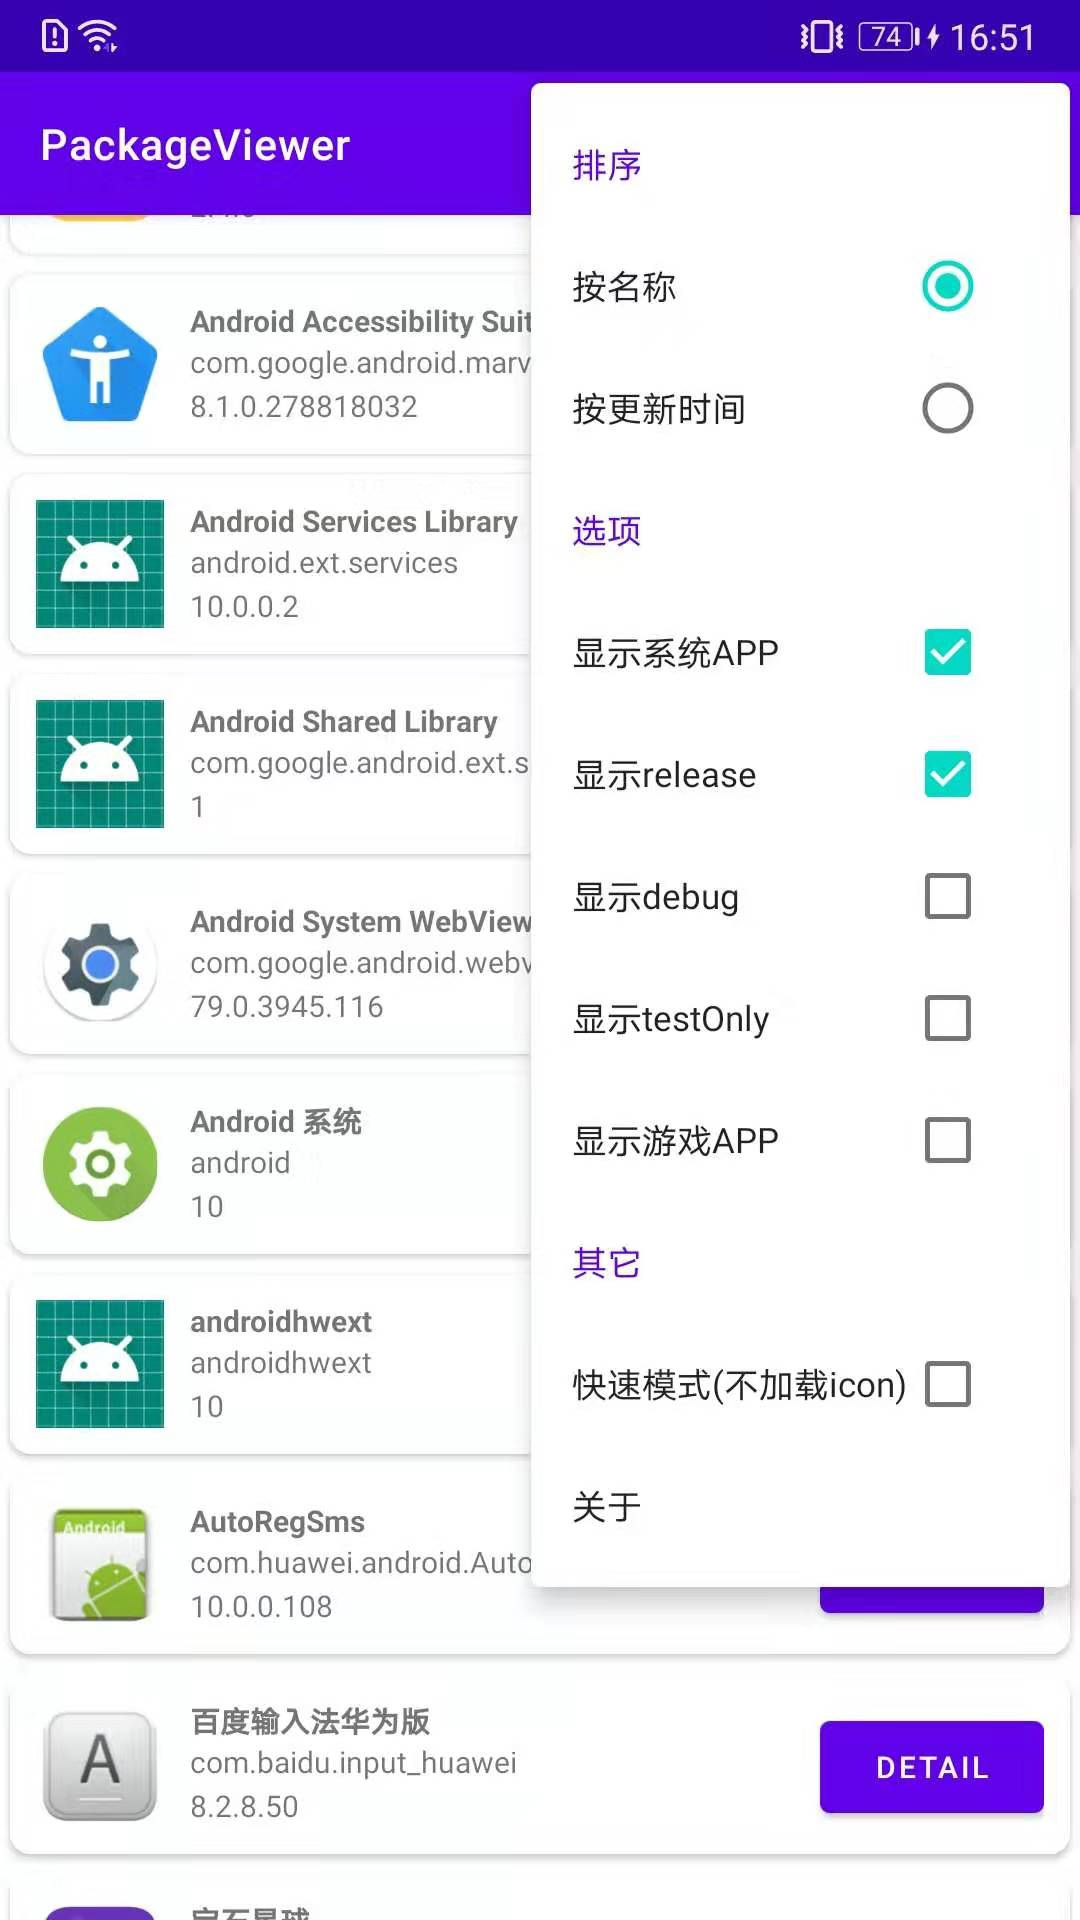
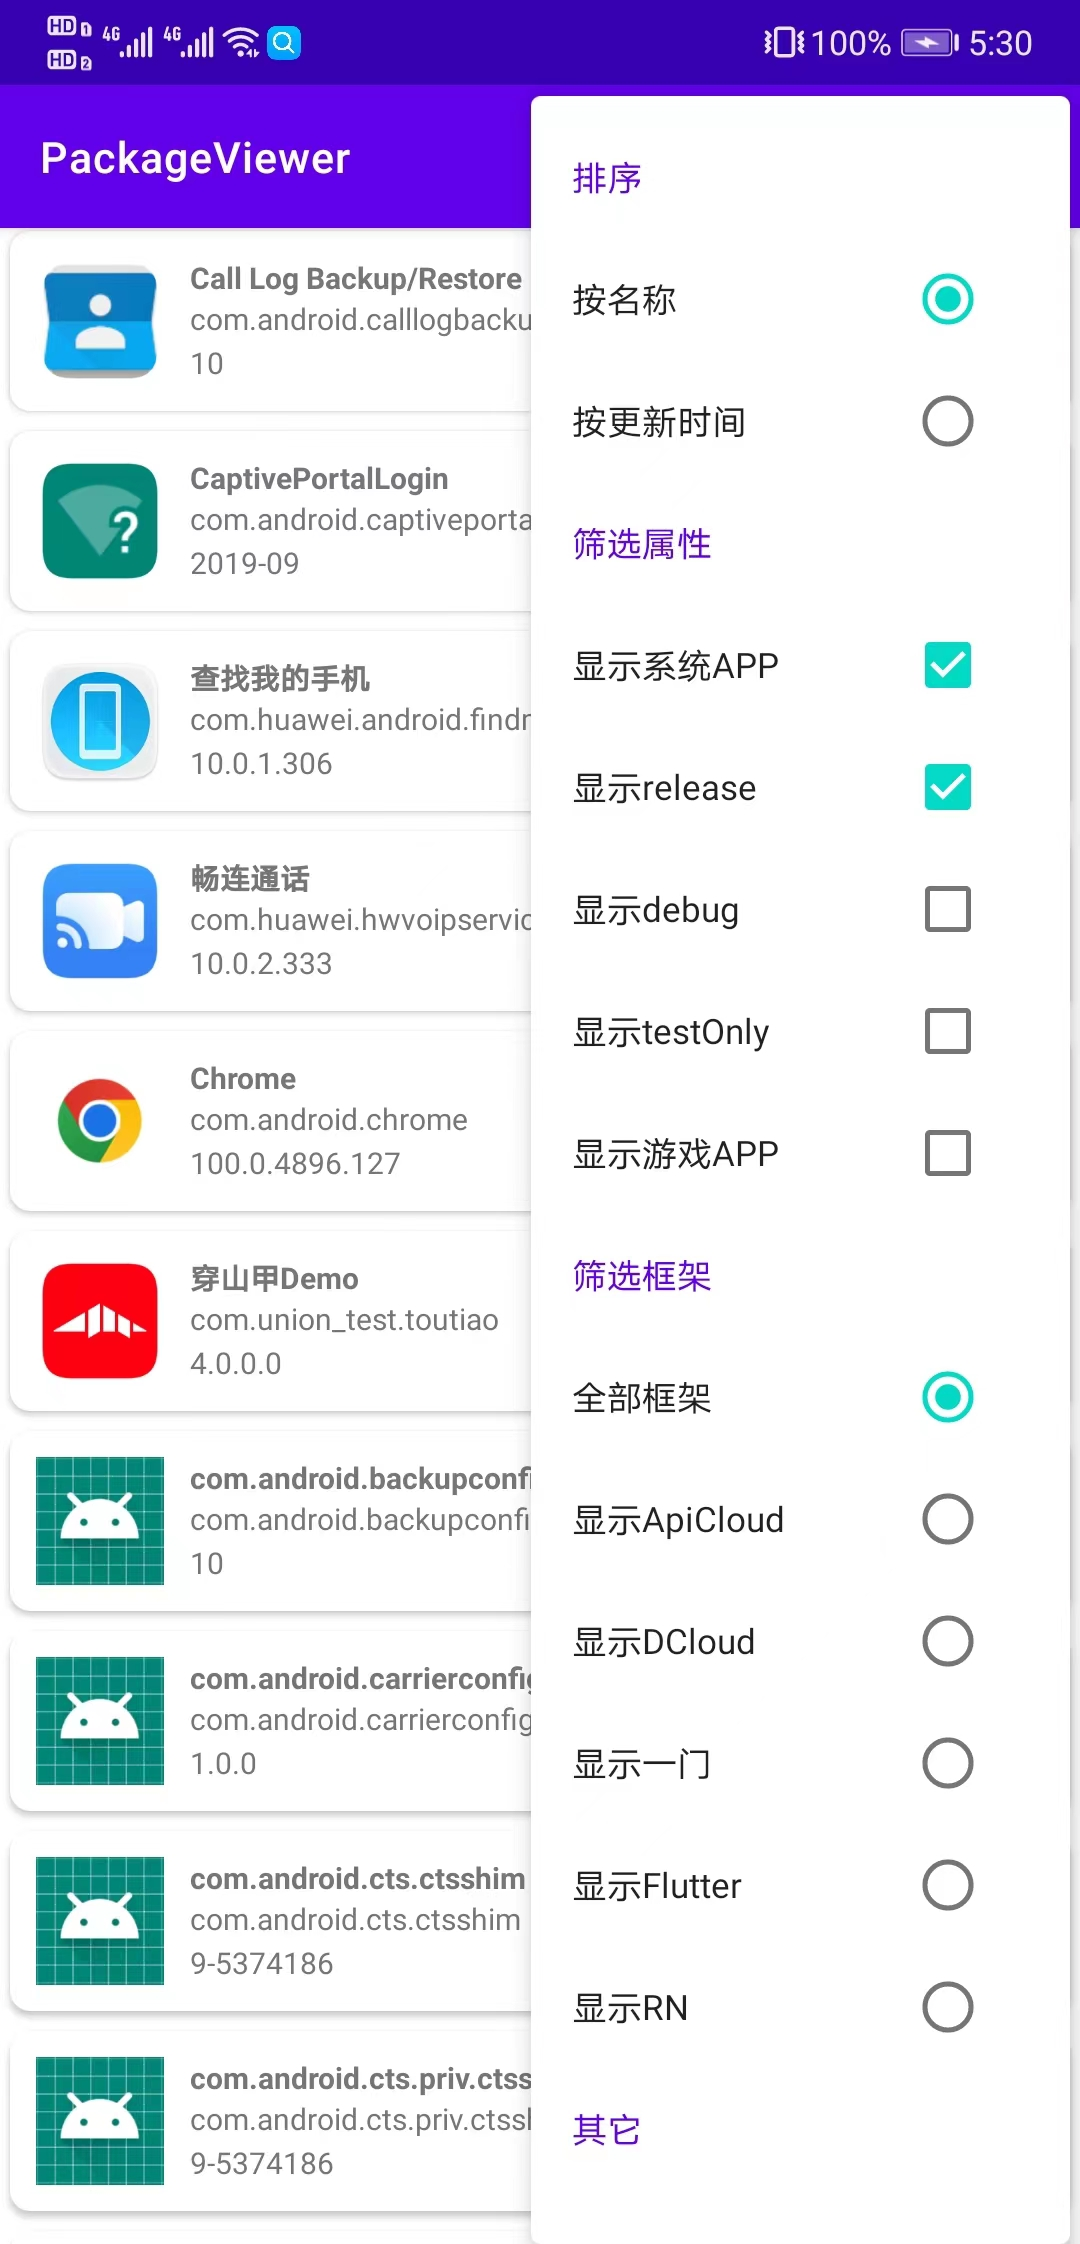
add:1.增加RN/Flutter判断;2.增加框架过滤

diff --git a/app/src/main/java/com/mai/packageviewer/activity/MainActivity.kt b/app/src/main/java/com/mai/packageviewer/activity/MainActivity.kt
@@ -8,7 +8,6 @@ import android.net.Uri
 import android.os.Build
 import android.os.Bundle
 import android.provider.Settings
-import android.util.Log
 import android.view.KeyEvent
 import android.view.Menu
 import android.view.MenuItem
@@ -29,6 +28,7 @@ import java.util.*
 import kotlin.collections.ArrayList
 import kotlin.math.min
 import android.content.Intent
+import com.mai.packageviewer.setting.MainSettings
 
 
 class MainActivity : AppCompatActivity() {
@@ -159,39 +159,50 @@ class MainActivity : AppCompatActivity() {
             if (!sortOnly) {
                 appInfoFilterList.clear()
                 // 重新过滤
-                appInfoFilterList.addAll(appInfoList.filterNot {
-                    it.packageName == BuildConfig.APPLICATION_ID
-                            || (!mainMenu.showSystemApp && it.isSystemApp)
-                            || (!mainMenu.showReleaseApp && !it.isDebugApp)
-                            || (!mainMenu.showDebugApp && it.isDebugApp)
-                            || (!mainMenu.showTestOnlyApp && it.isTestOnlyApp)
-                            || (!mainMenu.showGameApp && it.isGameApp)
-                })
+                appInfoFilterList.addAll(
+                    appInfoList.filterNot {
+                        it.packageName == BuildConfig.APPLICATION_ID
+                                || (!mainMenu.showSystemApp && it.isSystemApp)
+                                || (!mainMenu.showReleaseApp && !it.isDebugApp)
+                                || (!mainMenu.showDebugApp && it.isDebugApp)
+                                || (!mainMenu.showTestOnlyApp && it.isTestOnlyApp)
+                                || (!mainMenu.showGameApp && it.isGameApp)
+                    }.filter {
+                        when (mainMenu.platFilter) {
+                            MainSettings.SHOW_ALL_APPS -> true
+                            MainSettings.SHOW_API_CLOUD_APPS -> it.apkShellAndPlat.contains("ApiCloud")
+                            MainSettings.SHOW_DCLOUD_APPS -> it.apkShellAndPlat.contains("DCloud")
+                            MainSettings.SHOW_YI_MEN_APPS -> it.apkShellAndPlat.contains("一门")
+                            MainSettings.SHOW_FLUTTER_APPS -> it.devLang.contains("Flutter")
+                            MainSettings.SHOW_RN_APPS -> it.devLang.contains("RN")
+                            else -> false
+                        }
+                    })
             }
 
             // 排序
             if (mainMenu.orderByName) {
                 appInfoFilterList.sortWith { lh, rh ->
-                    val charL = lh.label[0].toLowerCase()
-                    val charR = rh.label[0].toLowerCase()
+                    val charL = lh.label[0].lowercaseChar()
+                    val charR = rh.label[0].lowercaseChar()
                     val strL = if (charL.isLowerCase() || charL.isDigit()) {
                         // label为字母
-                        lh.label.toLowerCase(Locale.getDefault()).toCharArray()
+                        lh.label.lowercase(Locale.getDefault()).toCharArray()
                     } else {
                         // 首字拼音+读音，简单比较直接忽略错误
                         try {
                             PinyinHelper.toHanyuPinyinStringArray(charL)[0].toCharArray()
                         } catch (e: Exception) {
-                            lh.label.toLowerCase(Locale.getDefault()).toCharArray()
+                            lh.label.lowercase(Locale.getDefault()).toCharArray()
                         }
                     }
                     val strR = if (charR.isLowerCase() || charR.isDigit()) {
-                        rh.label.toLowerCase(Locale.getDefault()).toCharArray()
+                        rh.label.lowercase(Locale.getDefault()).toCharArray()
                     } else {
                         try {
                             PinyinHelper.toHanyuPinyinStringArray(charR)[0].toCharArray()
                         } catch (e: Exception) {
-                            rh.label.toLowerCase(Locale.getDefault()).toCharArray()
+                            rh.label.lowercase(Locale.getDefault()).toCharArray()
                         }
                     }
 
@@ -199,7 +210,7 @@ class MainActivity : AppCompatActivity() {
                     for (i in 0 until min(strL.size, strR.size)) {
                         if (strL[i] != strR[i]) {
                             // 继续比较下一位
-                            val num = strL[i].toInt() - strR[i].toInt()
+                            val num = strL[i].code - strR[i].code
                             result = when {
                                 num > 0 -> 1
                                 num == 0 -> 0
@@ -257,6 +268,10 @@ class MainActivity : AppCompatActivity() {
                 onOptionsChanged()
             }
 
+            override fun onPlatFilterChange() {
+                onOptionsChanged()
+            }
+
             override fun onQueryTextChange(newText: String) {
                 // 搜索
                 appAdapter.filter.filter(newText)
@@ -271,13 +286,13 @@ class MainActivity : AppCompatActivity() {
     private fun showLoading() {
         binder.loadingView.visibility = View.VISIBLE
         mainMenu.menu.setGroupEnabled(R.id.menu_group_sort, false)
-        mainMenu.menu.setGroupEnabled(R.id.menu_group_filters, false)
+        mainMenu.menu.setGroupEnabled(R.id.menu_group_filter_pref, false)
     }
 
     private fun hideLoading() {
         binder.loadingView.visibility = View.GONE
         mainMenu.menu.setGroupEnabled(R.id.menu_group_sort, true)
-        mainMenu.menu.setGroupEnabled(R.id.menu_group_filters, true)
+        mainMenu.menu.setGroupEnabled(R.id.menu_group_filter_pref, true)
     }
 
     override fun onOptionsItemSelected(item: MenuItem): Boolean {

diff --git a/app/src/main/java/com/mai/packageviewer/view/MainMenu.kt b/app/src/main/java/com/mai/packageviewer/view/MainMenu.kt
@@ -18,7 +18,6 @@ import androidx.appcompat.app.AlertDialog
 import androidx.appcompat.widget.SearchView
 import androidx.core.content.ContextCompat
 import androidx.core.view.forEach
-import com.google.android.material.snackbar.Snackbar
 import com.mai.packageviewer.App
 import com.mai.packageviewer.R
 import com.mai.packageviewer.setting.MainSettings
@@ -45,7 +44,11 @@ class MainMenu(val menu: Menu, val activity: Activity) {
     var showTestOnlyApp = true
     var showGameApp = true
 
-    companion object{
+    // 框架筛选
+    var platFilter: String =
+        MainSettings.INSTANCE.getString(MainSettings.SHOW_APPS_PLAT, MainSettings.SHOW_ALL_APPS)
+
+    companion object {
         // 快速模式
         var initFastMode = MainSettings.INSTANCE.getBool(MainSettings.INIT_FAST_MODE, false)
     }
@@ -101,7 +104,36 @@ class MainMenu(val menu: Menu, val activity: Activity) {
                     it.isChecked = MainSettings.INSTANCE.getBool(MainSettings.SHOW_GAME_APP, true)
                     showGameApp = it.isChecked
                 }
-                R.id.fast_mode ->{
+
+                R.id.show_all_app -> {
+                    it.isChecked = platFilter == MainSettings.SHOW_APPS_PLAT
+                }
+                R.id.show_api_cloud_app -> {
+                    if (platFilter == MainSettings.SHOW_API_CLOUD_APPS) {
+                        it.isChecked = true
+                    }
+                }
+                R.id.show_dcloud_app -> {
+                    if (platFilter == MainSettings.SHOW_DCLOUD_APPS) {
+                        it.isChecked = true
+                    }
+                }
+                R.id.show_yimen_app -> {
+                    if (platFilter == MainSettings.SHOW_YI_MEN_APPS) {
+                        it.isChecked = true
+                    }
+                }
+                R.id.show_flutter_app -> {
+                    if (platFilter == MainSettings.SHOW_FLUTTER_APPS) {
+                        it.isChecked = true
+                    }
+                }
+                R.id.show_rn_app -> {
+                    if (platFilter == MainSettings.SHOW_RN_APPS) {
+                        it.isChecked = true
+                    }
+                }
+                R.id.fast_mode -> {
                     it.isChecked = MainSettings.INSTANCE.getBool(MainSettings.INIT_FAST_MODE, false)
                     initFastMode = it.isChecked
                 }
@@ -188,6 +220,60 @@ class MainMenu(val menu: Menu, val activity: Activity) {
                 showGameApp = b
                 mainMenuListener?.onIncludeGameApp(b)
             }
+            R.id.show_all_app -> {
+                item.isChecked = true
+                MainSettings.INSTANCE.setString(
+                    MainSettings.SHOW_APPS_PLAT,
+                    MainSettings.SHOW_ALL_APPS
+                )
+                platFilter = MainSettings.SHOW_ALL_APPS
+                mainMenuListener?.onPlatFilterChange()
+            }
+            R.id.show_api_cloud_app -> {
+                item.isChecked = true
+                MainSettings.INSTANCE.setString(
+                    MainSettings.SHOW_APPS_PLAT,
+                    MainSettings.SHOW_API_CLOUD_APPS
+                )
+                platFilter = MainSettings.SHOW_API_CLOUD_APPS
+                mainMenuListener?.onPlatFilterChange()
+            }
+            R.id.show_dcloud_app -> {
+                item.isChecked = true
+                MainSettings.INSTANCE.setString(
+                    MainSettings.SHOW_APPS_PLAT,
+                    MainSettings.SHOW_DCLOUD_APPS
+                )
+                platFilter = MainSettings.SHOW_DCLOUD_APPS
+                mainMenuListener?.onPlatFilterChange()
+            }
+            R.id.show_yimen_app -> {
+                item.isChecked = true
+                MainSettings.INSTANCE.setString(
+                    MainSettings.SHOW_APPS_PLAT,
+                    MainSettings.SHOW_YI_MEN_APPS
+                )
+                platFilter = MainSettings.SHOW_YI_MEN_APPS
+                mainMenuListener?.onPlatFilterChange()
+            }
+            R.id.show_flutter_app -> {
+                item.isChecked = true
+                MainSettings.INSTANCE.setString(
+                    MainSettings.SHOW_APPS_PLAT,
+                    MainSettings.SHOW_FLUTTER_APPS
+                )
+                platFilter = MainSettings.SHOW_FLUTTER_APPS
+                mainMenuListener?.onPlatFilterChange()
+            }
+            R.id.show_rn_app -> {
+                item.isChecked = true
+                MainSettings.INSTANCE.setString(
+                    MainSettings.SHOW_APPS_PLAT,
+                    MainSettings.SHOW_RN_APPS
+                )
+                platFilter = MainSettings.SHOW_RN_APPS
+                mainMenuListener?.onPlatFilterChange()
+            }
             R.id.fast_mode -> {
                 val b = !item.isChecked
                 item.isChecked = b
@@ -261,11 +347,18 @@ class MainMenu(val menu: Menu, val activity: Activity) {
 
     interface MainMenuListener {
         fun onOrderChanged(orderByName: Boolean)
+
+        // 属性过滤
         fun onIncludeSystemApp(includeSystemApp: Boolean)
         fun onIncludeReleaseApp(includeReleaseApp: Boolean)
         fun onIncludeDebugApp(includeDebugApp: Boolean)
         fun onIncludeTestOnlyApp(includeTestOnlyApp: Boolean)
         fun onIncludeGameApp(includeGameApp: Boolean)
+
+        // 框架过滤
+        fun onPlatFilterChange()
+
+        // 文字变化
         fun onQueryTextChange(newText: String)
     }
 

diff --git a/app/src/main/java/com/mai/packageviewer/data/AppInfo.kt b/app/src/main/java/com/mai/packageviewer/data/AppInfo.kt
@@ -124,7 +124,7 @@ class AppInfo(packageInfo: PackageInfo) {
     /**
      * 加固/框架判断
      */
-    val apkSocketAndPlat: String
+    val apkShellAndPlat: String
         get() {
             return when (className) {
                 "com.stub.StubApp" ->
@@ -148,6 +148,11 @@ class AppInfo(packageInfo: PackageInfo) {
             }
         }
 
+    /**
+     * App开发平台判断
+     */
+    var devLang: String = "未知"
+
     init {
         val applicationInfo = packageInfo.applicationInfo
         // 耗时操作
@@ -156,5 +161,32 @@ class AppInfo(packageInfo: PackageInfo) {
         if (!MainMenu.initFastMode) {
             iconDrawable = applicationInfo.loadIcon(App.app.packageManager)
         }
+
+        val nativeLibraryDir = applicationInfo.nativeLibraryDir
+        if (nativeLibraryDir != null) {
+            val libDirPath = File(nativeLibraryDir)
+            if (libDirPath.exists()) {
+                run getDevLanguage@{
+                    val walk = libDirPath.walk()
+                    walk.maxDepth(2)
+                        .filter {
+                            it.isFile && it.extension == "so"
+                        }
+                        .forEach {
+                            when (it.nameWithoutExtension) {
+                                "libflutter" -> {
+                                    devLang = "Flutter"
+                                    return@getDevLanguage
+                                }
+                                "libreactnativejni" -> {
+                                    devLang = "RN"
+                                    return@getDevLanguage
+                                }
+                            }
+                        }
+                }
+            }
+        }
+
     }
 }

diff --git a/app/src/main/java/com/mai/packageviewer/setting/MainSettings.kt b/app/src/main/java/com/mai/packageviewer/setting/MainSettings.kt
@@ -10,11 +10,22 @@ enum class MainSettings {
     companion object {
         private const val FILE_NAME = "MainSettings"
         const val ORDER_BY_NAME = "order_by_name"
+
+        // 属性过滤
         const val SHOW_SYSTEM_APP = "show_system_app"
         const val SHOW_RELEASE_APP = "show_release_app"
         const val SHOW_DEBUG_APP = "show_debug_app"
         const val SHOW_TEST_ONLY_APP = "show_test_only_app"
         const val SHOW_GAME_APP = "show_game_app"
+
+        // 框架过滤
+        const val SHOW_APPS_PLAT = "show_apps_plat"
+        const val SHOW_ALL_APPS = "show_all_apps"
+        const val SHOW_API_CLOUD_APPS = "show_api_cloud_apps"
+        const val SHOW_DCLOUD_APPS = "show_dcloud_apps"
+        const val SHOW_YI_MEN_APPS = "show_yi_men_apps"
+        const val SHOW_FLUTTER_APPS = "show_flutter_apps"
+        const val SHOW_RN_APPS = "show_rn_apps"
         const val INIT_FAST_MODE = "init_fast_mode"
     }
 
@@ -24,6 +35,14 @@ enum class MainSettings {
 
     fun setBool(key: String, value: Boolean) {
         getSp().edit().putBoolean(key, value).apply()
+    }
+
+    fun getString(key: String, defaultValue: String): String {
+        return getSp().getString(key, defaultValue)!!
+    }
+
+    fun setString(key: String, value: String) {
+        getSp().edit().putString(key, value).apply()
     }
 
     private fun getSp(): SharedPreferences {

diff --git a/app/src/main/java/com/mai/packageviewer/util/AppInfoHelper.kt b/app/src/main/java/com/mai/packageviewer/util/AppInfoHelper.kt
@@ -141,7 +141,8 @@ object AppInfoHelper {
         ret.add(BaseKVObject("Game", "${this.isGameApp}"))
         ret.add(BaseKVObject("ApkPath", this.apkPath))
         ret.add(BaseKVObject("ApkSize", this.apkSize))
-        ret.add(BaseKVObject("加固/框架(测试)", this.apkSocketAndPlat))
+        ret.add(BaseKVObject("加固/框架(测试)", this.apkShellAndPlat))
+        ret.add(BaseKVObject("包含框架", this.devLang))
         return ret
     }
 

diff --git a/README.md b/README.md
@@ -26,6 +26,8 @@
 
 - 通过 ApplicationID 判断加固、打包平台 （测试）
 
+- 通过 nativeLib 判断是否包含 Flutter | RN 
+
 ## Feature
 
 - 打印签名信息 （唯二有用的功能）
